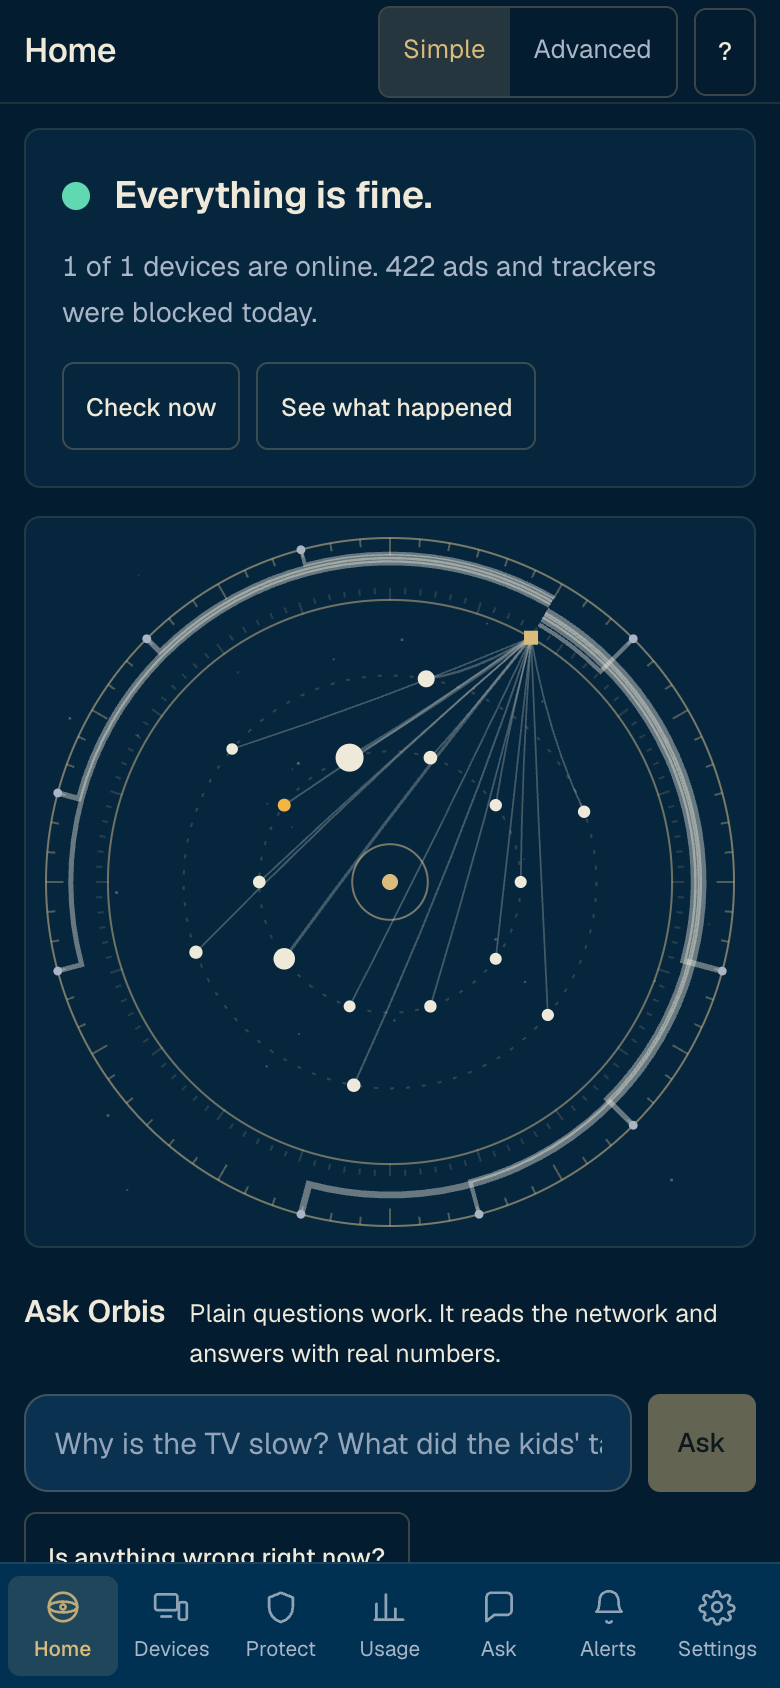
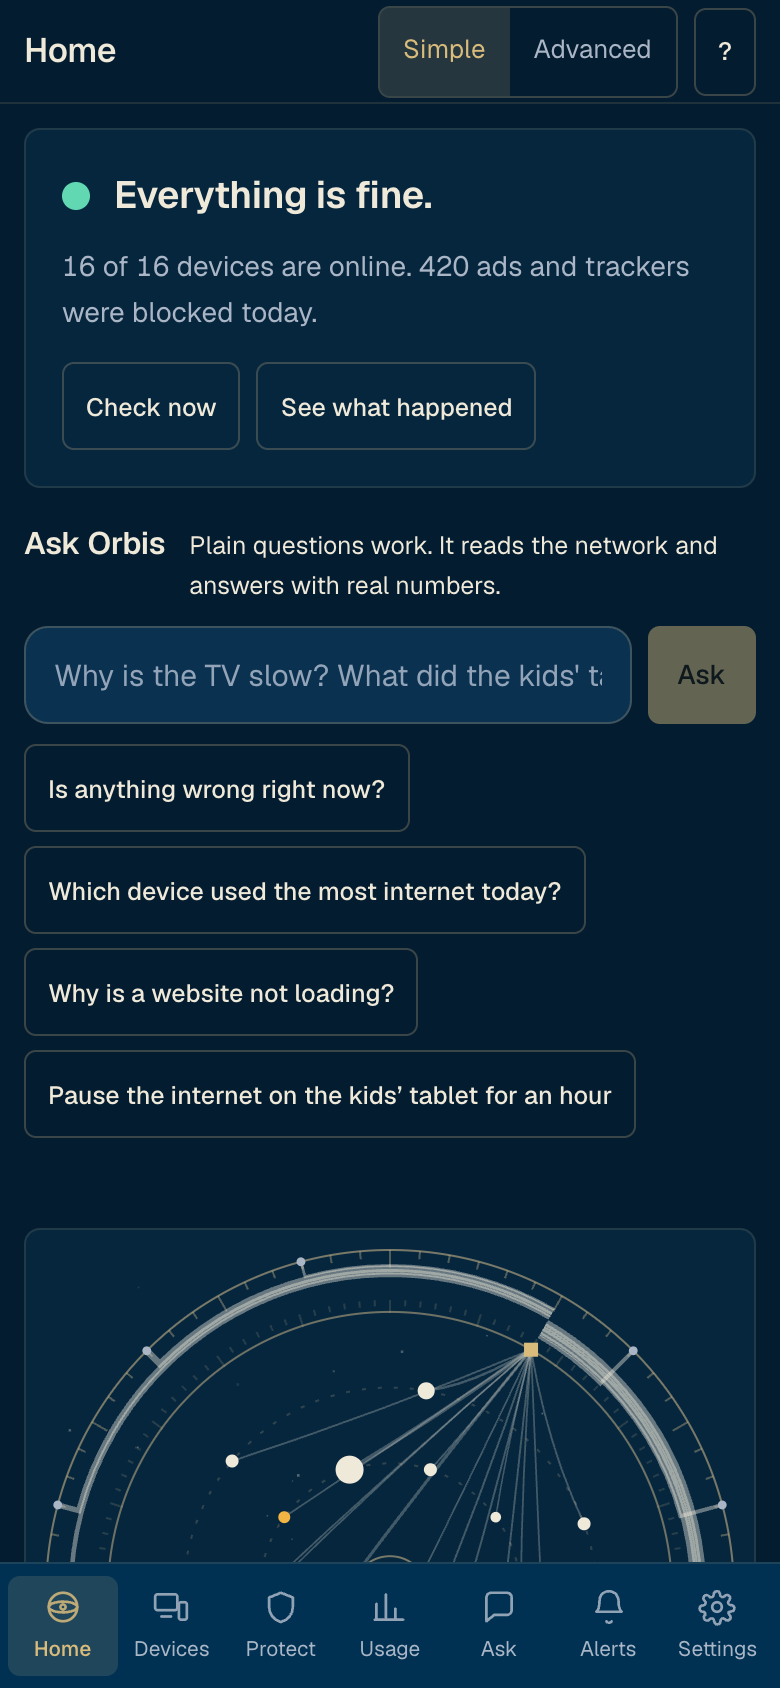
Final design batch: chart lettering avoids what it would cover, one device count, block page works on a phone, no glow

diff --git a/web/src/orbit/OrbitChart.tsx b/web/src/orbit/OrbitChart.tsx
@@ -110,6 +110,7 @@ export const OrbitChart = forwardRef<OrbitHandle, Props>(function OrbitChart(
       jade: cssVar('--accent'), red: cssVar('--red'), amber: cssVar('--amber'),
     }
     const sans = cssVar('--sans')
+    const plateColor = cssVar('--bg-1')
     const line = (a: number) => `rgba(214,190,138,${a})`
     const bodies = new Map<string, Body>()
     // The engraving never changes, so it is drawn once and stamped each frame.
@@ -120,6 +121,8 @@ export const OrbitChart = forwardRef<OrbitHandle, Props>(function OrbitChart(
     let hovered: string | null = null
     let hoveredStrike: Strike | null = null
 
+    /** Lettering needs room; a small chart keeps the drawing without it. */
+    const lettered = () => !compact && Math.min(w, h) >= 420
     const shieldR = () => R * 0.82
     const orbitR = (ring: number) => R * (ring ? 0.6 : 0.38)
     const gateway = () => ({ x: cx + Math.cos(GATEWAY_ANGLE) * shieldR(), y: cy + Math.sin(GATEWAY_ANGLE) * shieldR() })
@@ -186,7 +189,7 @@ export const OrbitChart = forwardRef<OrbitHandle, Props>(function OrbitChart(
       ring(orbitR(0), 0.2, [2, 6])
       ring(R * 0.11, 0.55)
 
-      if (!compact) {
+      if (lettered()) {
         c.font = `500 11px ${sans}`
         c.fillStyle = color.faint
         curved(c, "People's devices", orbitR(1) + 11, Math.PI / 2 + 0.5)
@@ -373,13 +376,6 @@ export const OrbitChart = forwardRef<OrbitHandle, Props>(function OrbitChart(
       const g = gateway()
       ctx.fillStyle = color.brass
       ctx.fillRect(g.x - 3.5, g.y - 3.5, 7, 7)
-      if (!compact) {
-        ctx.font = `500 11px ${sans}`
-        ctx.textAlign = 'left'
-        ctx.textBaseline = 'middle'
-        ctx.fillStyle = color.dim
-        ctx.fillText('Gateway', g.x + 9, g.y + 9)
-      }
 
       // Stopped lookups: out from the device, dead at the shield, and a mark
       // left there that can be opened.
@@ -436,17 +432,44 @@ export const OrbitChart = forwardRef<OrbitHandle, Props>(function OrbitChart(
           ctx.stroke()
         }
       }
-      const busiest = compact ? [] : [...devices].sort((p, q) => q.rate - p.rate).slice(0, 4)
-      ctx.font = `500 11.5px ${sans}`
-      ctx.textBaseline = 'middle'
-      for (const d of busiest) {
-        const b = bodies.get(d.id)
-        if (!b || d.id === hovered || d.rate <= 0) continue
-        const name = d.name.length > 18 ? d.name.slice(0, 17) + '…' : d.name
-        const right = b.x < cx
-        ctx.textAlign = right ? 'right' : 'left'
-        ctx.fillStyle = color.ivory
-        ctx.fillText(name, b.x + (right ? -(b.size + 7) : b.size + 7), b.y)
+
+      // Names go where they cover nothing: the side away from the centre if
+      // that is free, the other side if not, and not at all if neither is. A
+      // halo of the plate's colour keeps them readable across a line, the way
+      // a chart's lettering is knocked out of its engraving.
+      if (lettered()) {
+        ctx.font = `500 11.5px ${sans}`
+        ctx.textBaseline = 'middle'
+        ctx.lineJoin = 'round'
+        const placed: Array<{ x0: number; x1: number; y0: number; y1: number }> = []
+        const hit = (r: { x0: number; x1: number; y0: number; y1: number }) => {
+          for (const p of placed) if (r.x0 < p.x1 && r.x1 > p.x0 && r.y0 < p.y1 && r.y1 > p.y0) return true
+          for (const q of bodies.values()) if (q.x > r.x0 - q.size && q.x < r.x1 + q.size && q.y > r.y0 - q.size && q.y < r.y1 + q.size) return true
+          return false
+        }
+        const write = (text: string, x: number, y: number, side: number) => {
+          const tw = ctx.measureText(text).width
+          const box = { x0: side > 0 ? x : x - tw, x1: side > 0 ? x + tw : x, y0: y - 8, y1: y + 8 }
+          if (box.x0 < 2 || box.x1 > w - 2 || hit(box)) return false
+          ctx.textAlign = side > 0 ? 'left' : 'right'
+          ctx.lineWidth = 3.5
+          ctx.strokeStyle = plateColor
+          ctx.strokeText(text, x, y)
+          ctx.fillStyle = color.ivory
+          ctx.fillText(text, x, y)
+          placed.push(box)
+          return true
+        }
+        const gx = gateway()
+        write('Gateway', gx.x - 9, gx.y - 13, -1) || write('Gateway', gx.x + 9, gx.y - 13, 1)
+        for (const d of [...devices].sort((p, q) => q.rate - p.rate).slice(0, 4)) {
+          const b = bodies.get(d.id)
+          if (!b || d.id === hovered || d.rate <= 0) continue
+          const name = d.name.length > 18 ? d.name.slice(0, 17) + '…' : d.name
+          const out = b.x < cx ? -1 : 1, gap = b.size + 7
+          write(name, b.x + out * gap, b.y, out) || write(name, b.x - out * gap, b.y, -out)
+        }
+        ctx.lineWidth = 1
       }
 
       const tip = tipRef.current

diff --git a/internal/blockpage/page.html b/internal/blockpage/page.html
@@ -36,7 +36,7 @@ main {
 .mark svg { width: 24px; height: 24px; display: block; }
 h1 {
   /* The name is a security read: rn and m, l and 1 must stay distinct. */
-  font-family: var(--mono); font-size: clamp(27px, 4.6vw, 46px); line-height: 1.12; font-weight: 500; letter-spacing: -.04em;
+  font-family: var(--mono); font-size: clamp(27px, 4.6vw, 46px); line-height: 1.12; font-weight: 500; letter-spacing: -.02em;
   overflow-wrap: anywhere; text-wrap: balance;
 }
 h1.long { font-size: clamp(23px, 3.5vw, 34px); }
@@ -101,9 +101,13 @@ footer { font-size: 13.5px; color: var(--faint); max-width: 56ch; }
 }
 @media (max-width: 759px) {
   /* A plate of its own above the text, so no ring runs through the words. */
-  canvas { position: absolute; height: 200px; }
-  main { padding-top: 212px; }
+  canvas { position: absolute; height: 128px; }
+  main { padding-top: 136px; gap: 20px; justify-content: flex-start; }
   .mark { position: absolute; left: 20px; top: 22px; }
+  .actions { order: 1; }
+  .route { order: 2; }
+  dl { order: 3; }
+  footer { order: 4; }
   .actions .btn { flex: 1 1 auto; }
 }
 @media (prefers-reduced-motion: reduce) {
@@ -125,14 +129,14 @@ footer { font-size: 13.5px; color: var(--faint); max-width: 56ch; }
   {{if .Blocked}}
   <p class="lede"><b>Orbis stopped this site.</b> {{.Why}}</p>
   <ol class="route" aria-label="How Orbis decided">
-    {{range $s := .Stations}}<li class="stop {{$s.Class}}"><i class="dot"></i><div><b>{{$s.Title}}</b>{{if $s.Detail}}<span>{{$s.Detail}}</span>{{end}}</div></li>
+    {{range $s := .Stations}}<li class="stop {{$s.Class}}"><i class="dot"></i><div><b>{{$s.Title}}</b>{{if $s.Detail}}<span{{if $s.Address}} class="code"{{end}}>{{$s.Detail}}</span>{{end}}</div></li>
     {{end}}
   </ol>
   <dl>
     {{if .Rule}}<dt>Rule</dt><dd class="code">{{.Rule}}</dd>{{end}}
     {{if .Source}}<dt>Decided by</dt><dd>{{.Source}}</dd>{{end}}
     {{if .Category}}<dt>Category</dt><dd>{{.Category}}</dd>{{end}}
-    {{if .Device}}<dt>This device</dt><dd>{{.Device}}</dd>{{end}}
+    {{if .Device}}<dt>This device</dt><dd{{if .DeviceAddress}} class="code"{{end}}>{{.Device}}</dd>{{end}}
     <dt>When</dt><dd>{{.When}}</dd>
   </dl>
   <div class="actions">
@@ -164,9 +168,9 @@ footer { font-size: 13.5px; color: var(--faint); max-width: 56ch; }
   var w, h, cx, cy, R, dpr = Math.min(devicePixelRatio || 1, 2), wide, stars = [], raf = 0, last = 0;
   var CYCLE = 7000, TRAVEL = 1500, FROM = 1.9, TO = 3.95;
   function size() {
-    wide = innerWidth >= 760; w = innerWidth; h = wide ? innerHeight : 200;
+    wide = innerWidth >= 760; w = innerWidth; h = wide ? innerHeight : 128;
     c.width = w * dpr; c.height = h * dpr; x.setTransform(dpr, 0, 0, dpr, 0, 0);
-    cx = wide ? Math.max(w * .76, 640 + h * .44) : w * .66; cy = wide ? h * .5 : 104; R = wide ? Math.min(h * .44, 440) : 90;
+    cx = wide ? Math.max(w * .76, 640 + h * .44) : w * .66; cy = wide ? h * .5 : 66; R = wide ? Math.min(h * .44, 440) : 54;
     stars = [];
     var seed = 11;
     function next() { return (seed = seed * 16807 % 2147483647) / 2147483647 }

diff --git a/web/src/styles.css b/web/src/styles.css
@@ -282,8 +282,8 @@
   }
   .globe-overlay > * { pointer-events: auto; }
   .globe-legend {
-    display: flex; gap: 14px; align-items: center; font-family: var(--mono); font-size: 10.5px;
-    color: var(--text-faint); background: rgba(4,28,47,.62);
+    display: flex; gap: 14px; align-items: center; font-size: 12px;
+    color: var(--text-dim);
     padding: 0; align-self: flex-start;
   }
   .globe-legend i { width: 16px; height: 2px; border-radius: 2px; display: inline-block; margin-right: 5px; vertical-align: middle; }
@@ -557,6 +557,7 @@
 .orbit canvas { width: 100%; height: 100%; display: block; }
 .plate-chart .orbit-title { position: absolute; left: 16px; top: 13px; font-size: 13px; font-weight: 520; color: var(--text); }
 .plate-chart .orbit-key { position: absolute; left: 16px; bottom: 11px; font-size: 12px; color: var(--text-faint); pointer-events: none; }
+@media (max-width: 760px) { .plate-chart .orbit-key, .plate-chart .orbit-title { display: none; } }
 .orbit-tip {
   position: absolute; left: 0; top: 0; pointer-events: none; opacity: 0; z-index: 3; max-width: 200px;
   background: var(--bg-2); border: 1px solid var(--line); border-radius: var(--radius-sm); padding: 6px 10px;
@@ -602,8 +603,9 @@
 .trace-stop.block .trace-title { color: var(--red); }
 .trace-detail { font-size: 13px; color: var(--text-dim); line-height: 1.5; }
 
-.simple-top { display: grid; grid-template-columns: minmax(0, 1fr) minmax(280px, 400px); gap: 14px; align-items: stretch; }
-.simple-chart { position: relative; min-height: 340px; background: var(--bg-1); border: 1px solid var(--line-soft); border-radius: var(--radius); }
+.simple-top { display: grid; grid-template-columns: minmax(0, 1fr) minmax(280px, 400px); gap: 14px; align-items: start; }
+.simple-left { display: grid; gap: 18px; min-width: 0; }
+.simple-chart { position: relative; aspect-ratio: 1; background: var(--bg-1); border: 1px solid var(--line-soft); border-radius: var(--radius); }
 .glance { list-style: none; padding: 0; margin: 0; background: var(--bg-1); border: 1px solid var(--line-soft); border-radius: var(--radius); }
 .glance li + li { border-top: 1px solid var(--line-soft); }
 .glance button { display: flex; align-items: center; gap: 14px; width: 100%; min-height: 52px; padding: 10px 16px; border: 0; background: none; color: inherit; font: inherit; text-align: left; cursor: pointer; }
@@ -612,7 +614,7 @@
 .glance .what small { display: block; font-size: 12.5px; color: var(--text-faint); }
 .glance .value { font-size: 16px; font-weight: 540; font-variant-numeric: tabular-nums; }
 .glance svg { color: var(--text-faint); flex: none; }
-@media (max-width: 880px) { .simple-top { grid-template-columns: minmax(0, 1fr); } .simple-chart { min-height: 0; aspect-ratio: 1; } }
+@media (max-width: 880px) { .simple-top { grid-template-columns: minmax(0, 1fr); } .simple-chart { aspect-ratio: 1; } }
 
 /* Tables and rows carry a hover cue and nothing else. */
 .btn:active:not(:disabled) { transform: translateY(1px); }

diff --git a/web/src/simple/Home.tsx b/web/src/simple/Home.tsx
@@ -48,10 +48,11 @@ export function SimpleHome({ onNavigate, onAsk }: { onNavigate: (r: string) => v
   return (
     <div style={{ display: 'grid', gap: 22 }}>
       <div className="simple-top">
+      <div className="simple-left">
       <div className={`hero ${health.level}`}>
         <div className="hero-title"><span className="orb" />{health.headline}</div>
         <div className="hero-sub">
-          {health.devices_online} of {health.devices_total} devices are online.
+          {clients ? devices.length : health.devices_online} of {clients?.clients.length ?? health.devices_total} devices are online.
           {' '}{health.protection_on ? `${num(health.blocked_today)} ads and trackers were blocked today.` : 'Protection is switched off.'}
         </div>
         {(health.points ?? []).length > 0 && (
@@ -76,12 +77,6 @@ export function SimpleHome({ onNavigate, onAsk }: { onNavigate: (r: string) => v
           )}
         </div>
       </div>
-      <div className="simple-chart">
-        <OrbitChart compact devices={devices} flows={flows} onSelect={() => onNavigate('s-devices')}
-          label={`${devices.length} devices online. Open Devices to see them all.`} />
-      </div>
-      </div>
-
       <Section title="Ask Orbis" hint="Plain questions work. It reads the network and answers with real numbers.">
         <div className="ask">
           <input className="input" value={question} placeholder="Why is the TV slow? What did the kids' tablet do today?"
@@ -95,6 +90,12 @@ export function SimpleHome({ onNavigate, onAsk }: { onNavigate: (r: string) => v
           ))}
         </div>
       </Section>
+      </div>
+      <div className="simple-chart">
+        <OrbitChart compact devices={devices} flows={flows} onSelect={() => onNavigate('s-devices')}
+          label={`${devices.length} devices online. Open Devices to see them all.`} />
+      </div>
+      </div>
 
       <Section title="At a glance">
         <ul className="glance">

diff --git a/web/src/globe/scene.ts b/web/src/globe/scene.ts
@@ -181,7 +181,7 @@ function arcFlowMaterial(spec: ArcSpec, weight: number): THREE.ShaderMaterial {
   const w = flowWeights(spec.bytesIn, spec.bytesOut, spec.direction)
   return new THREE.ShaderMaterial({
     transparent: true,
-    blending: THREE.AdditiveBlending,
+    blending: THREE.NormalBlending,
     depthWrite: false,
     uniforms: {
       uBase: { value: arcColor(spec) },
@@ -420,7 +420,7 @@ export class GlobeScene {
         color: COLORS.countryLit,
         transparent: true,
         opacity: 0,
-        blending: THREE.AdditiveBlending,
+        blending: THREE.NormalBlending,
         depthWrite: false,
       })
       const lines = new THREE.LineSegments(geom, mat)
@@ -709,7 +709,7 @@ export class GlobeScene {
         new THREE.SphereGeometry(0.7, 10, 10),
         new THREE.MeshBasicMaterial({
           color: COLORS.home, transparent: true, opacity: 1,
-          blending: THREE.AdditiveBlending, depthWrite: false,
+          blending: THREE.NormalBlending, depthWrite: false,
         }),
       )
       dot.position.copy(pos)

diff --git a/web/src/pages/ChangeTimeline.css b/web/src/pages/ChangeTimeline.css
@@ -64,7 +64,6 @@
 }
 
 .ct-countdown {
-  font-family: var(--mono);
   font-variant-numeric: tabular-nums;
   color: var(--amber);
   font-weight: 650;
@@ -183,7 +182,6 @@
 
 .ct-stamp,
 .ct-size {
-  font-family: var(--mono);
   font-size: 11.5px;
   color: var(--text-dim);
 }
@@ -264,7 +262,6 @@
   display: flex;
   align-items: center;
   gap: 10px;
-  font-family: var(--mono);
   font-size: 11.5px;
   color: var(--text-dim);
 }

diff --git a/internal/app/blockpage.go b/internal/app/blockpage.go
@@ -38,6 +38,7 @@ func (a *App) explainBlock(ctx context.Context, host string, client netip.Addr) 
 	if c := a.Registry.ByIP(client); c != nil {
 		page.Device = firstNonEmpty(c.Label, c.Hostname, c.IP)
 	}
+	page.DeviceAddress = net.ParseIP(page.Device) != nil
 	if addr, ok := a.BlockGuard.AddrFor(client, now); ok {
 		port := ""
 		if _, p, err := net.SplitHostPort(a.Cfg.Snapshot().API.Listen); err == nil && p != "80" {
@@ -57,7 +58,7 @@ func (a *App) explainBlock(ctx context.Context, host string, client netip.Addr) 
 	}
 
 	page.Stations = []blockpage.Station{
-		{Title: "Your device", Detail: page.Device, Class: "clear"},
+		{Title: "Your device", Detail: page.Device, Class: "clear", Address: page.DeviceAddress},
 		{Title: "Orbis", Detail: "Asked for the address of " + host, Class: "clear"},
 	}
 	for _, s := range steps {

diff --git a/internal/blockpage/blockpage.go b/internal/blockpage/blockpage.go
@@ -52,6 +52,8 @@ type Station struct {
 	// resolver, "decided" for the stage that stopped the request and
 	// "unreached" for what the request never got to.
 	Class string
+	// Address sets Detail as an address rather than as words.
+	Address bool
 }
 
 // Page is everything shown for one blocked name.
@@ -64,10 +66,12 @@ type Page struct {
 	Source   string
 	Category string
 	Device   string
-	When     string
-	AdminURL string
-	Copy     string
-	Nonce    string
+	// DeviceAddress says Device is an address, because the device has no name.
+	DeviceAddress bool
+	When          string
+	AdminURL      string
+	Copy          string
+	Nonce         string
 	// HostParts lets a long name wrap at its dots, not in the middle of a word.
 	HostParts []string
 	Long      bool
